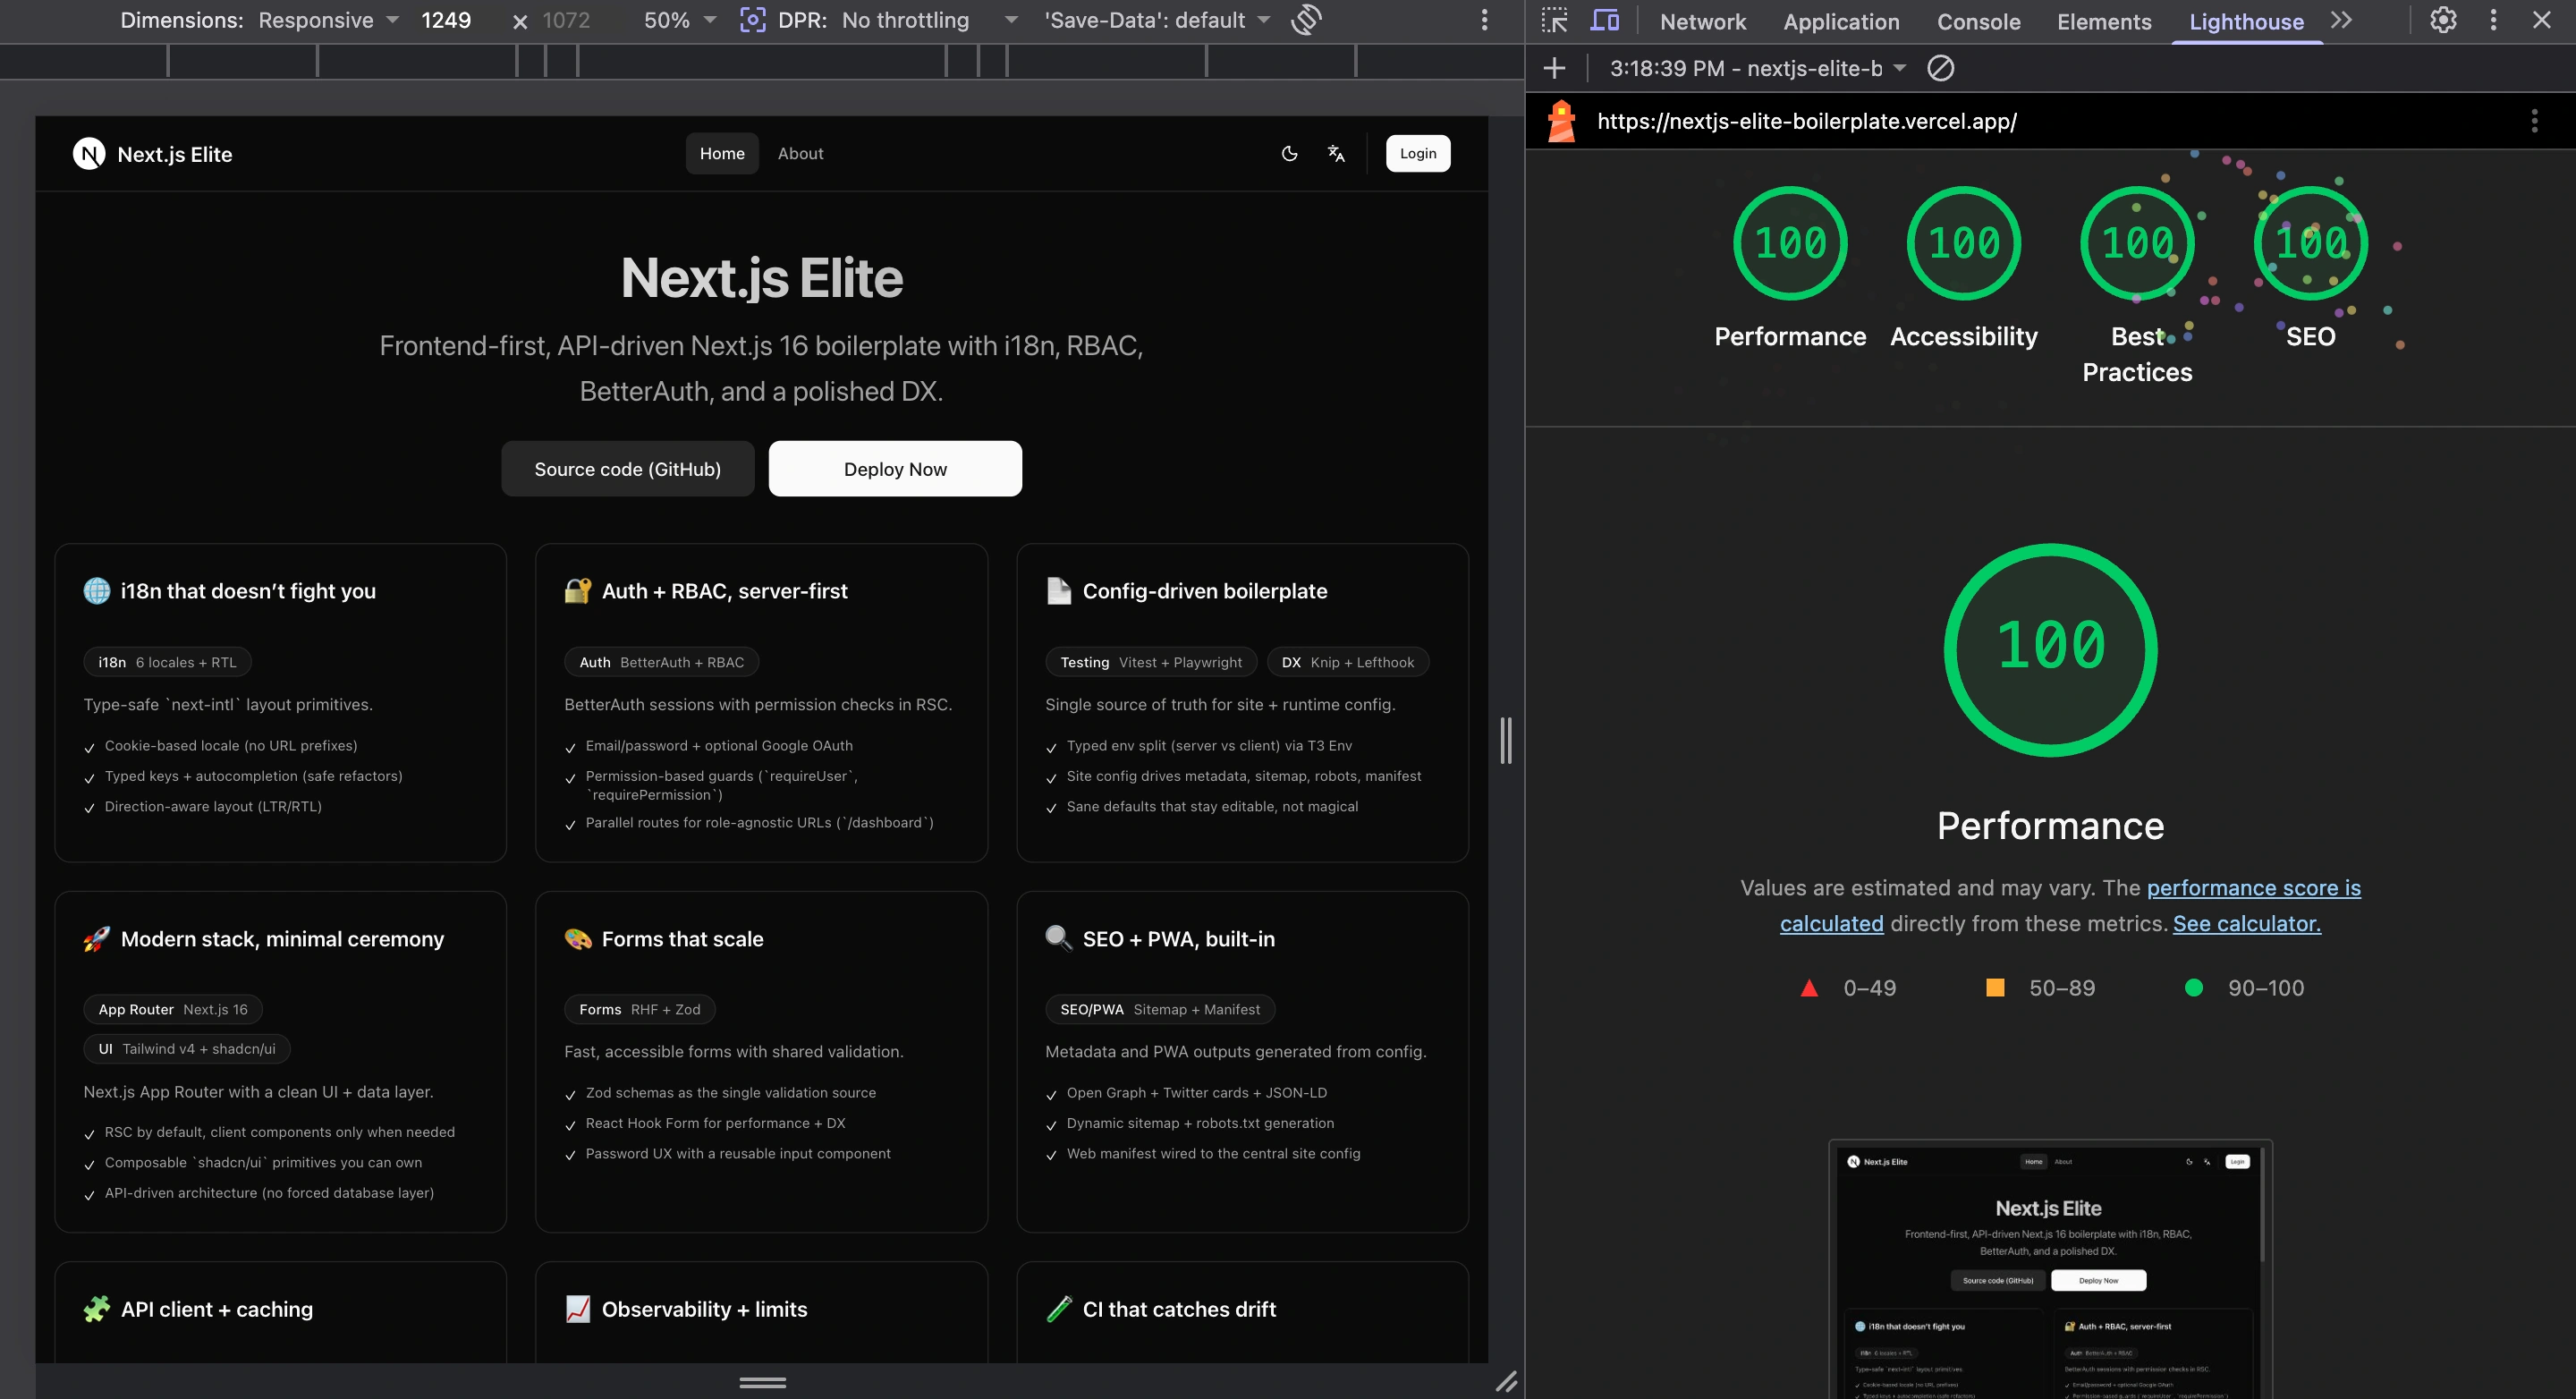
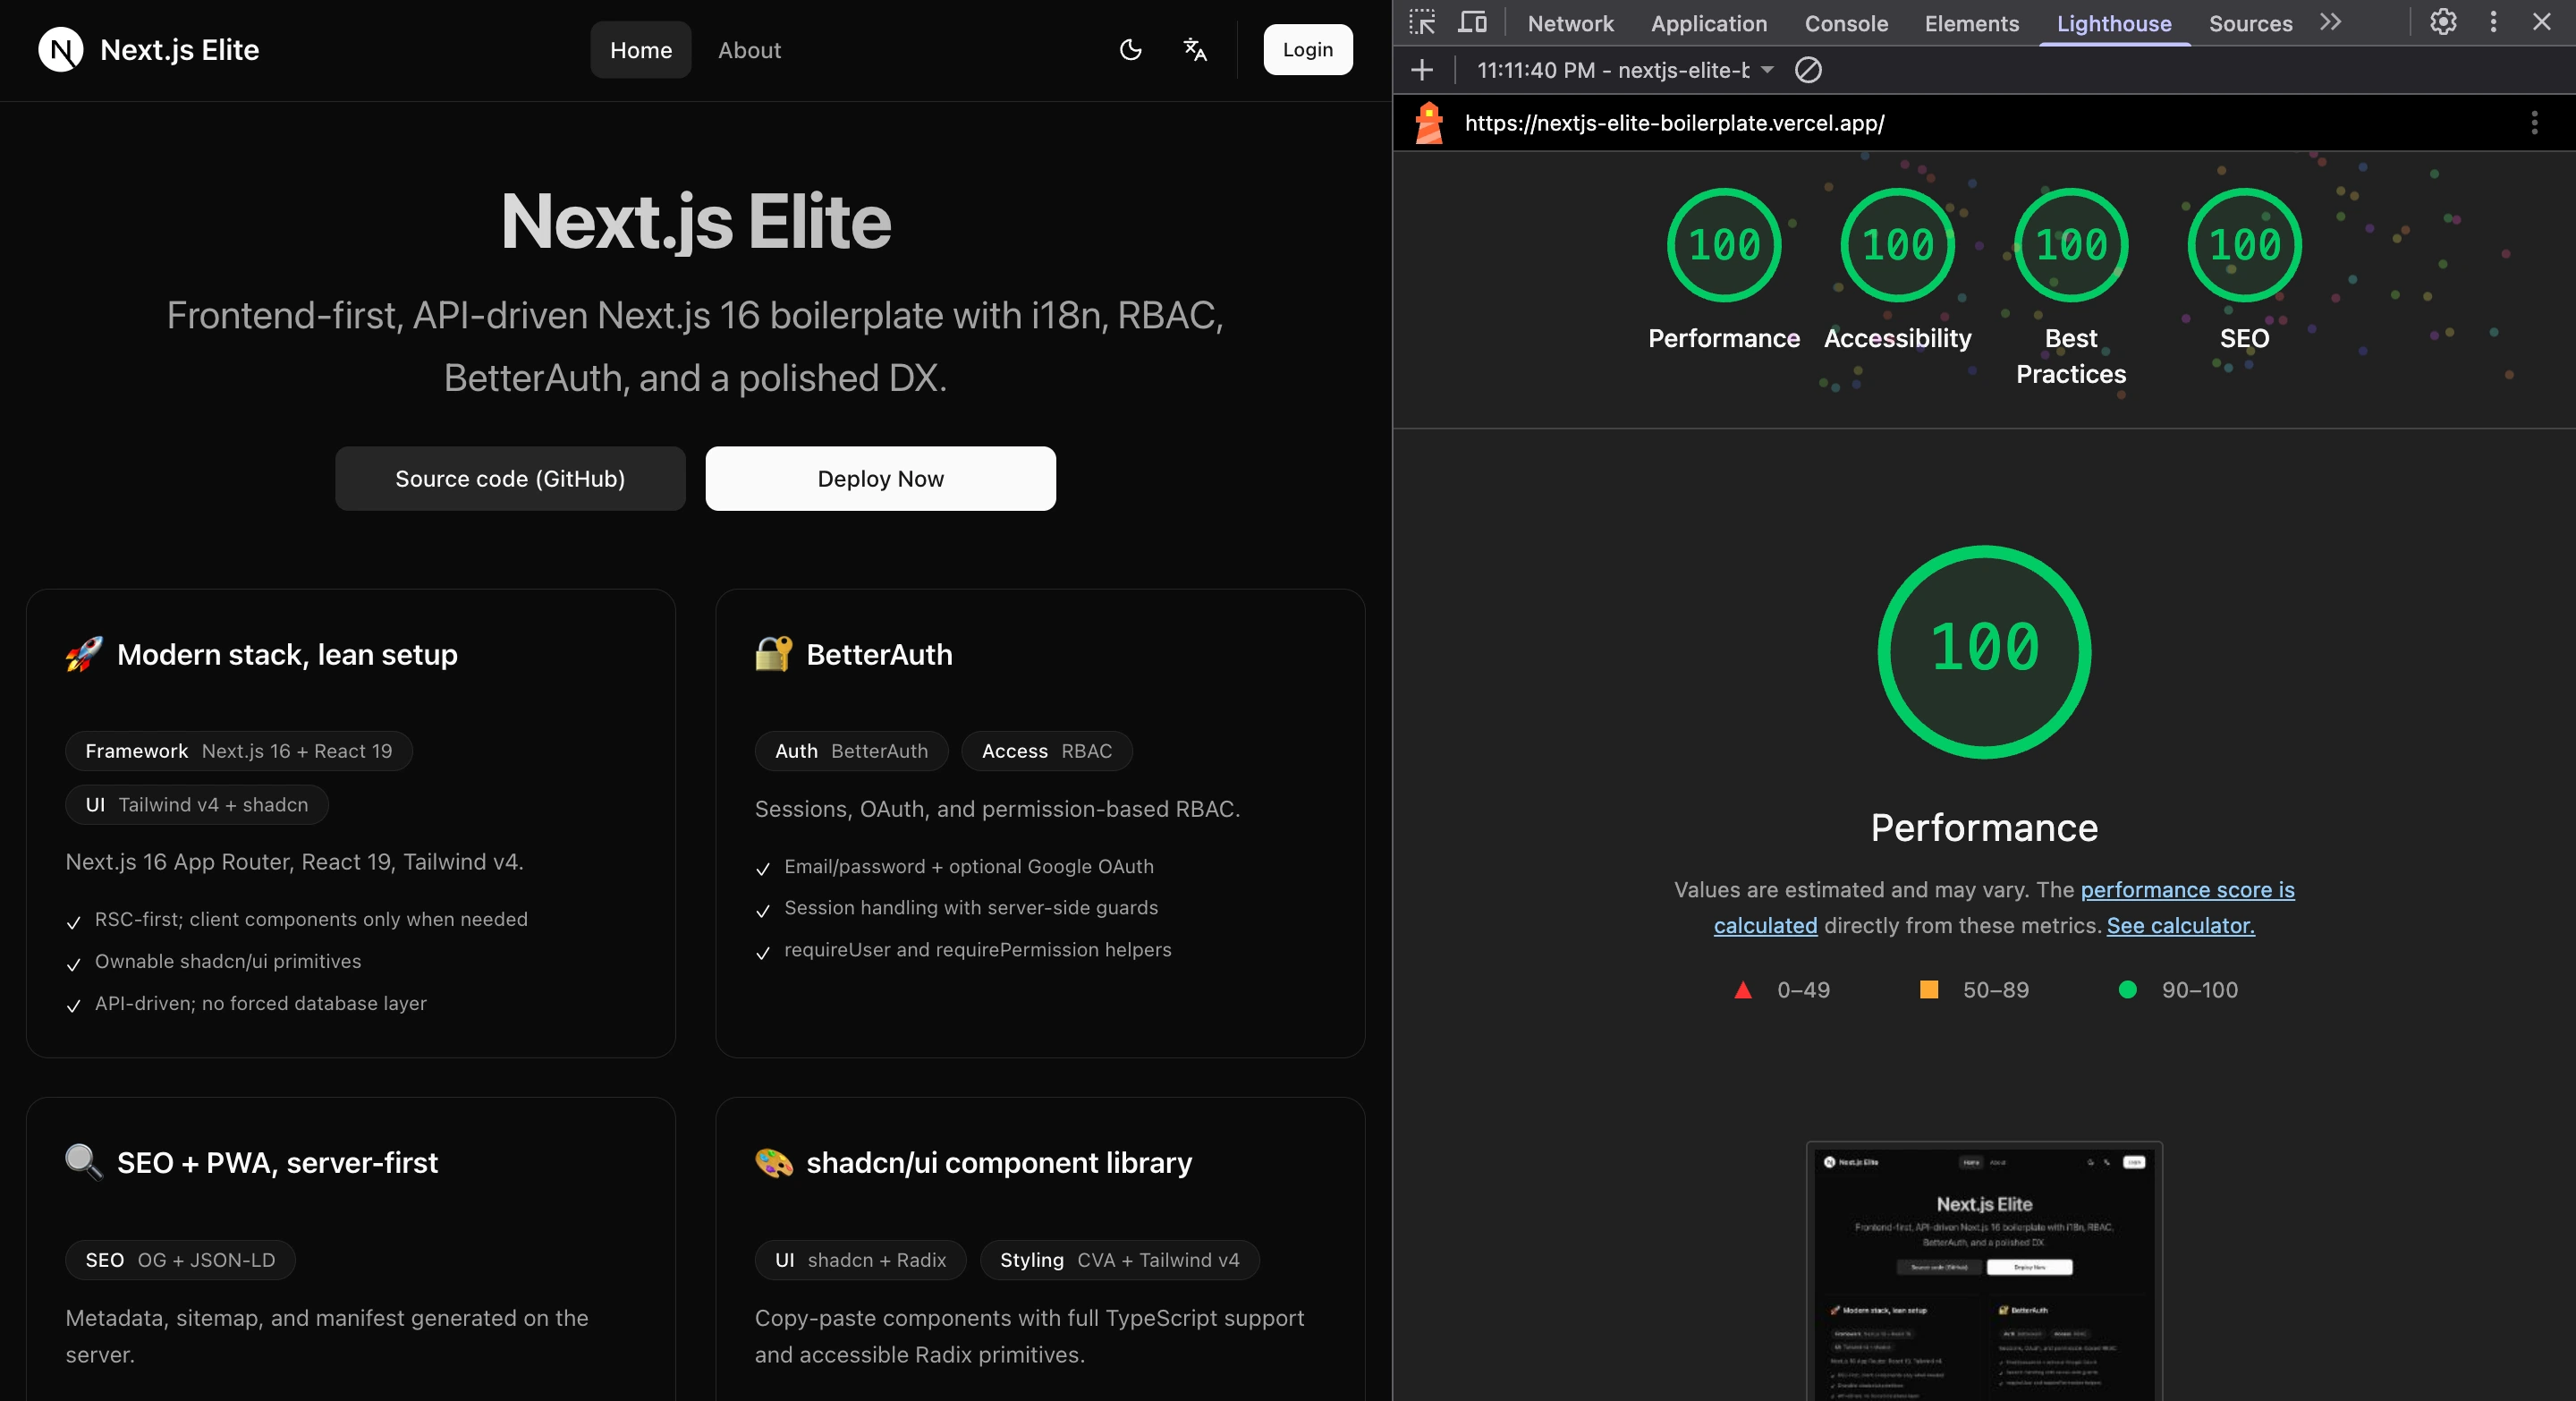
chore: remove unnecessary files from root and readme update

diff --git a/README.md b/README.md
@@ -38,33 +38,22 @@ Most Next.js starters either ship the bare minimum or bolt on a database/ORM you
 
 ## Integrated features
 
-- **Auth (BetterAuth)** —> Email/password with optional Google OAuth, plus an [Upstash Redis](https://upstash.com/) adapter for serverless-friendly sessions. Admin role via `AUTH_ADMIN_EMAILS` / `NEXT_PUBLIC_AUTH_ADMIN_EMAILS`.
-
-- **RBAC + role-based routing** —> Permission-based RBAC (`user`, `admin`) with server-side guards (`requireUser`, `requirePermission`) for Server Components, paired with [parallel routes](https://nextjs.org/docs/app/building-your-application/routing/parallel-routes) (`@admin`, `@user`) so `/dashboard` stays role-agnostic.
-
-- **Type-safe i18n (6 languages)** —> [`next-intl`](https://next-intl.dev/) with **cookie-based locale** (no URL prefix) for English, বাংলা, العربية (RTL), Français, Español, and 简体中文. Keys are type-checked (`t("navigation.home")` works; typos fail compile-time).
-
-- **UI kit** —> [shadcn/ui](https://ui.shadcn.com/) (Radix + CVA + Tailwind) with copy-and-own components.
-
-- **Central site config** —> Single [`src/features/site/site.config.json`](src/features/site/site.config.json) drives app name, SEO, languages, organization, theme, social meta, sitemap, robots, and `manifest.webmanifest`.
-
-- **SEO that scales** —> Open Graph, Twitter Cards, JSON-LD, canonical URLs, language alternates, dynamic sitemap + robots — driven from the central config.
-
-- **Type-safe env** —> [`@t3-oss/env-nextjs`](https://env.t3.gg/) + Zod with server/client split; invalid variables fail early.
-
-- **Forms** —> [React Hook Form](https://react-hook-form.com/) + [Zod](https://zod.dev/) for fast, accessible forms with shared validation.
-
-- **API layer** —> `ofetch` wrapper for typed HTTP + [TanStack Query](https://tanstack.com/query/latest) for caching, with a worked `users` feature you can copy.
-
-- **Demo mode (opt-in)** —> Self-contained `src/features/auth/demo/` module adds click-to-fill + auto-register behind `NEXT_PUBLIC_DEMO_MODE`. Turn it off (or delete the folder) for production.
-
-- **Observability & protection** —> [Sentry](https://sentry.io/) instrumentation, `pino` server logging, and optional `@upstash/ratelimit` helpers.
-
-- **Quality gates** —> [ESLint](https://eslint.org/) + [Prettier](https://prettier.io/), [Vitest](https://vitest.dev/) + React Testing Library, and [Playwright](https://playwright.dev/) E2E.
-
-- **DX automation** —> [Lefthook](https://github.com/evilmartians/lefthook) pre-commit, [Commitlint](https://commitlint.js.org/) commit-msg, [Knip](https://knip.dev/) dead-code/deps hygiene, and GitHub Actions CI.
-
-- **Health check** —> `GET /api/health` returns `{ "status": "ok" }` for load balancers and probes.
+| Feature | Description |
+| ------- | ----------- |
+| **Auth (BetterAuth)** | Email/password with optional Google OAuth via `/api/auth/*`. Admin role via `AUTH_ADMIN_EMAILS` / `NEXT_PUBLIC_AUTH_ADMIN_EMAILS`. Sessions use BetterAuth defaults (plug in your own storage adapter for multi-instance prod). |
+| **RBAC + role-based routing** | Permission-based RBAC (`user`, `admin`) with server-side guards (`requireUser`, `requirePermission`) for Server Components, paired with [parallel routes](https://nextjs.org/docs/app/building-your-application/routing/parallel-routes) (`@admin`, `@user`) so `/dashboard` stays role-agnostic. |
+| **Type-safe i18n (6 languages)** | [`next-intl`](https://next-intl.dev/) with **cookie-based locale** (no URL prefix) for English, বাংলা, العربية (RTL), Français, Español, and 简体中文. Keys are type-checked (`t("navigation.home")` works; typos fail compile-time). |
+| **UI kit** | [shadcn/ui](https://ui.shadcn.com/) (Radix + CVA + Tailwind) with copy-and-own components. |
+| **Central site config** | Single [`src/features/site/site.config.json`](src/features/site/site.config.json) drives app name, SEO, languages, organization, theme, social meta, sitemap, robots, and `manifest.webmanifest`. |
+| **SEO that scales** | Open Graph, Twitter Cards, JSON-LD, canonical URLs, language alternates, dynamic sitemap + robots — driven from the central config. |
+| **Type-safe env** | [`@t3-oss/env-nextjs`](https://env.t3.gg/) + Zod with server/client split; invalid variables fail early. |
+| **Forms** | [React Hook Form](https://react-hook-form.com/) + [Zod](https://zod.dev/) for fast, accessible forms with shared validation. |
+| **API layer** | `apiFetch` (`ofetch` + Zod) in `src/libs/api-client.ts` defaults to same-origin `/api`; [TanStack Query](https://tanstack.com/query/latest) on the client. Example `users` feature — point at your backend or add route handlers. |
+| **Demo mode (opt-in)** | Self-contained `src/features/auth/demo/` module adds click-to-fill + auto-register behind `NEXT_PUBLIC_DEMO_MODE`. Turn it off (or delete the folder) for production. |
+| **Observability & protection** | [Sentry](https://sentry.io/) instrumentation, `pino` server logging, and optional `getRateLimiter()` in `src/libs/rate-limit.ts` ([Upstash](https://upstash.com/) when `UPSTASH_REDIS_*` is set). |
+| **Quality gates** | [ESLint](https://eslint.org/) + [Prettier](https://prettier.io/), [Vitest](https://vitest.dev/) + React Testing Library, and [Playwright](https://playwright.dev/) E2E. |
+| **DX automation** | [Lefthook](https://github.com/evilmartians/lefthook) pre-commit, [Commitlint](https://commitlint.js.org/) commit-msg, [Knip](https://knip.dev/) dead-code/deps hygiene, [Renovate](https://docs.renovatebot.com/) dependency updates, and GitHub Actions CI. |
+| **Health check** | `GET /api/health` returns `{ "status": "ok" }` for load balancers and probes. |
 
 <br/>
 
@@ -104,10 +93,22 @@ For instant previews, the boilerplate ships with a **self-contained demo module*
 
 ```
 .
-├── .github/workflows/        CI: check.yml + playwright.yml
-├── e2e/                      Playwright E2E specs
+├── .github/
+│   ├── workflows/            CI: check.yml + playwright.yml
+│   └── renovate.json         Dependency updates
+├── config/                   vitest.config.ts, vitest.setup.ts
+├── e2e/                      Playwright specs + playwright.config.ts
 ├── messages/                 next-intl translations (en, bn, ar, fr, es, zh)
 ├── public/                   Static assets
+├── tests/                    Vitest specs (auth, i18n)
+├── components.json           shadcn/ui CLI config
+├── eslint.config.js
+├── knip.json
+├── next.config.mjs
+├── package.json              scripts; Prettier + Commitlint config
+├── proxy.ts                  Next.js middleware (pass-through)
+├── tsconfig.json
+├── lefthook.yml              Git hooks (pre-commit, commit-msg)
 ├── src/
 │   ├── app/                  App Router
 │   │   ├── (auth)/           Login & auth pages
@@ -147,12 +148,7 @@ For instant previews, the boilerplate ships with a **self-contained demo module*
 │   ├── instrumentation.ts    Server Sentry init
 │   ├── instrumentation-client.ts  Client Sentry init
 │   └── global.d.ts           next-intl type augmentation
-├── config/                   vitest.config.ts, vitest.setup.ts
-├── e2e/                      Playwright E2E + playwright.config.ts
-├── knip.json                 Dead-code & dependency hygiene
-├── tests/                    Vitest unit/integration tests
-├── proxy.ts                  Next.js middleware
-└── lefthook.yml              Git hooks (pre-commit, commit-msg)
+└── ...
 ```
 
 ### Folder conventions
@@ -160,27 +156,49 @@ For instant previews, the boilerplate ships with a **self-contained demo module*
 - **`features/<name>/`** — vertical slices. Anything specific to a feature lives here: components, hooks, schemas, server logic, RBAC.
 - **`libs/`** — cross-cutting infrastructure used by multiple features (env, logger, api client). No business logic.
 - **`schemas/`** — cross-cutting Zod schemas (e.g. paginated API responses) shared across features.
-- **`components/shared/`** — generic, app-level UI (logo, hero, page heading). Not feature-specific.
+- **`components/shared/`** — generic, app-level UI (logo, hero, home sections). Not feature-specific.
 - **`components/ui/`** — `shadcn/ui` primitives. Avoid editing in place; copy & extend.
 
 <br/>
 
 ## Architecture Overview
 
+The big picture: a page is rendered on the server, auth/role is checked there, and any live data is fetched on the client.
+
 ```mermaid
-flowchart LR
-    Client[Browser / RSC] -->|fetch| Edge[Next.js Edge / Node]
-    Edge -->|ofetch + TanStack Query| ExternalAPI[(External REST/GraphQL API)]
-    Edge -->|BetterAuth| Redis[(Upstash Redis)]
-    Edge -->|i18n cookie| NextIntl[next-intl messages]
-    Edge --> Sentry[(Sentry)]
+flowchart TB
+    User([User]) --> Page
+
+    subgraph Server["Server (runs first)"]
+        Page[Page / Layout]
+        Guard["requireUser() / requirePermission()"]
+        Page --> Guard
+        Guard -->|reads session + role| Auth[BetterAuth]
+    end
+
+    subgraph Client["Client (runs in browser)"]
+        Hook["useQuery (TanStack Query)"]
+        Hook -->|apiFetch| Api["/api or your backend URL"]
+    end
+
+    Page -->|sends HTML| User
+    Page -.->|interactive parts| Hook
 ```
+
+**How a request flows:**
+
+1. **User opens a page** — the Server Component renders first.
+2. **Auth + role check** — `requireUser()` / `requirePermission()` read the BetterAuth session and redirect to `/login` or `/unauthorized` if needed.
+3. **HTML is sent** to the browser; translations come from `messages/` via `next-intl`.
+4. **Live data** (lists, forms, etc.) is fetched on the client with TanStack Query → `apiFetch` → your API.
+
+> Optional add-ons: **Sentry** for error tracking and **Upstash Redis** for the rate-limit helper — both activate only when their env vars are set.
 
 ### Auth & RBAC
 
-- BetterAuth runs as a **singleton** in `src/features/auth/lib/auth.ts`. With `UPSTASH_REDIS_REST_URL/TOKEN` set, sessions persist in Redis; otherwise BetterAuth uses its in-memory adapter for local dev.
-- Server Components call `requireUser()` / `requirePermission(...)` from `src/features/auth/rbac/require.ts` to gate pages — invalid sessions redirect to `/login`, unauthorized users redirect to `/unauthorized`.
-- Permissions are derived from the user's role in `rbac/roles.ts` and checked with `hasPermission(...)` from `rbac/can.ts`. Extend the `AuthPermission` union and `ROLE_PERMISSIONS` map as your feature surface grows.
+- BetterAuth runs as a **singleton** in `src/features/auth/lib/auth.ts` and is exposed at **`/api/auth/*`** via `src/app/api/auth/[...all]/route.ts`. Sessions use BetterAuth's **default storage**; add a database or Redis adapter when you need durable or multi-instance sessions.
+- `getCurrentUser()` reads the session, maps `AUTH_ADMIN_EMAILS` to a role, and attaches permissions. Server Components call `requireUser()` / `requirePermission(...)` from `src/features/auth/rbac/require.ts` — invalid sessions redirect to `/login`, unauthorized users to `/unauthorized`.
+- Permissions are defined in `rbac/roles.ts` and checked with `hasPermission(...)` from `rbac/can.ts`. Extend the `AuthPermission` union and `ROLE_PERMISSIONS` map as your feature surface grows.
 
 ```ts
 // Server Component example
@@ -209,17 +227,23 @@ const form = useForm<LoginInput>({
 });
 ```
 
-### Client data fetching
+### API layer (client)
+
+`src/libs/api-client.ts` builds an `ofetch` client with base URL `{NEXT_PUBLIC_APP_URL}/api` (or `/api` in the browser). Responses can be validated with Zod via `apiFetch`. The example `users` feature calls `/users` — add a matching route handler or change `baseURL` to your external API.
 
 ```ts
-import { useQuery } from '@tanstack/react-query';
-import { getUsers } from '@/features/users/api';
+'use client';
 
-const { data } = useQuery({
-  queryKey: ['users', { page: 1 }],
-  queryFn: () => getUsers({ page: 1 }),
-});
+import { useUsers } from '@/features/users/hooks/use-users';
+
+export function UsersList() {
+  const { data, isLoading } = useUsers();
+  if (isLoading) return null;
+  return <ul>{data?.map((u) => <li key={u.id}>{u.name}</li>)}</ul>;
+}
 ```
+
+`useUsers()` wraps TanStack Query with `queryFn: getUsers` from `src/features/users/api.ts`.
 
 <br/>
 
@@ -227,40 +251,11 @@ const { data } = useQuery({
 
 ### Environment variables
 
-`.env.example` documents every variable. They are validated by `src/libs/env.ts` (T3 Env).
+Every variable is documented in [`.env.example`](.env.example) and validated by `src/libs/env.ts` (T3 Env), so invalid values fail fast. A few notes:
 
-- `BETTER_AUTH_URL` is optional. On Vercel it defaults to `https://${VERCEL_URL}` (or `http://localhost:3000` locally).
-- `BETTER_AUTH_SECRET` must be set in production runtime (32+ chars). Builds will pass; if it’s missing at runtime the app logs a warning so you don’t get surprise crashes during deploys.
-
-Example:
-
-```bash
-# BetterAuth
-# BETTER_AUTH_URL=http://localhost:3000           # optional; derived on Vercel
-BETTER_AUTH_SECRET=your_32_char_secret            # openssl rand -base64 32
-
-# Optional — Google OAuth
-NEXT_PUBLIC_GOOGLE_AUTH_ENABLED=false
-GOOGLE_CLIENT_ID=
-GOOGLE_CLIENT_SECRET=
-
-# Optional — admin role mapping (CSV)
-AUTH_ADMIN_EMAILS=[email redacted]
-NEXT_PUBLIC_AUTH_ADMIN_EMAILS=[email redacted]
-
-# Demo mode
-NEXT_PUBLIC_DEMO_MODE=true
-
-# Optional — Upstash Redis (rate-limit / persistence)
-UPSTASH_REDIS_REST_URL=
-UPSTASH_REDIS_REST_TOKEN=
-
-# Optional — Sentry
-NEXT_PUBLIC_SENTRY_DSN=
-SENTRY_DSN=
-```
-
-> Set `SKIP_ENV_VALIDATION=true` in CI / Docker build steps if env vars are not yet available.
+- `BETTER_AUTH_URL` is optional — derived from `VERCEL_URL` in production, `http://localhost:3000` locally.
+- `BETTER_AUTH_SECRET` (32+ chars) must be set at runtime in production. A missing secret logs a warning instead of crashing the build.
+- Set `SKIP_ENV_VALIDATION=true` in CI / Docker build steps when env vars aren't available yet.
 
 ### Site & SEO configuration
 
@@ -333,21 +328,9 @@ It drives:
 
 ## Testing
 
-- **Unit / component:** Vitest + React Testing Library. Specs live in `tests/` for fast feedback while you build features.
+- **Unit / component:** Vitest + React Testing Library. Feature specs in `tests/`; colocated `*.test.ts(x)` next to components (e.g. `src/components/ui/`) and libs.
 - **End-to-end:** Playwright in `e2e/`. `npm run e2e` boots the dev server automatically; `npm run e2e:ui` is great for debugging selectors and replaying failures locally.
 - **WebKit-only setup** (saves disk space): `npx playwright install webkit && npm run e2e:webkit`.
-
-<br/>
-
-## DX & Tooling
-
-- **Lefthook + commitlint**: auto-fix lint/format on staged files and enforce Conventional Commits (keeps PRs consistent).
-- **Knip**: dead-code and dependency hygiene (unused files/exports/deps) so the repo stays clean as it grows.
-- **Type-safe env (T3 Env)**: `src/libs/env.ts` validates server/client env at build time so misconfigurations fail early.
-- **Sentry**: wired through `instrumentation.ts` (server) + `instrumentation-client.ts` (client) for production error visibility.
-- **Upstash utilities**: optional `@upstash/ratelimit` helpers for protecting route handlers and server actions.
-- **Structured logging**: `pino` server logger with pretty output in development.
-- **Renovate** (`.github/renovate.json`) groups non-major updates and automerges patches.
 
 <br/>
 
@@ -355,6 +338,7 @@ It drives:
 
 - `.github/workflows/check.yml` — typecheck → lint → knip → unit tests → build, on every push and PR.
 - `.github/workflows/playwright.yml` — full Playwright suite (Chromium, Firefox, WebKit).
+- `.github/renovate.json` — groups non-major dependency updates and automerges patches.
 
 <br/>
 
@@ -379,12 +363,6 @@ Or with Compose:
 ```bash
 docker compose up --build
 ```
-
-<br/>
-
-## Health Check
-
-`GET /api/health` returns `{ "status": "ok" }` for load balancers and Kubernetes probes.
 
 <br/>
 